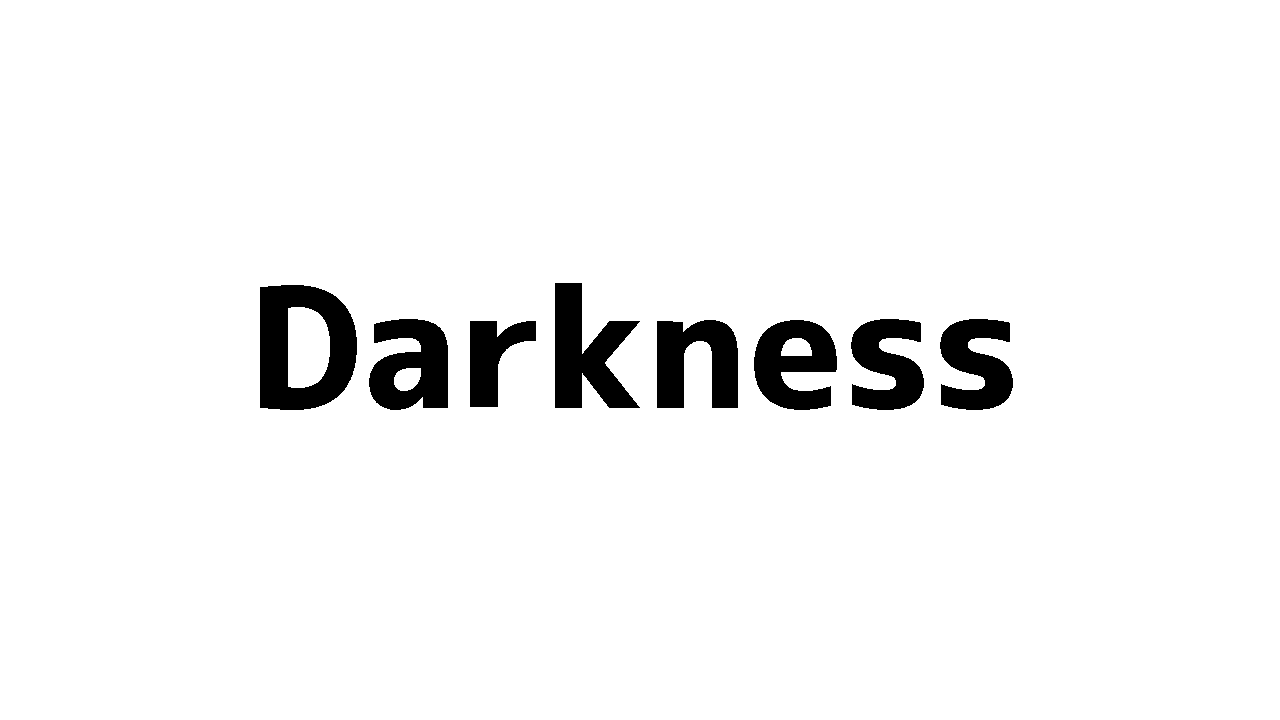
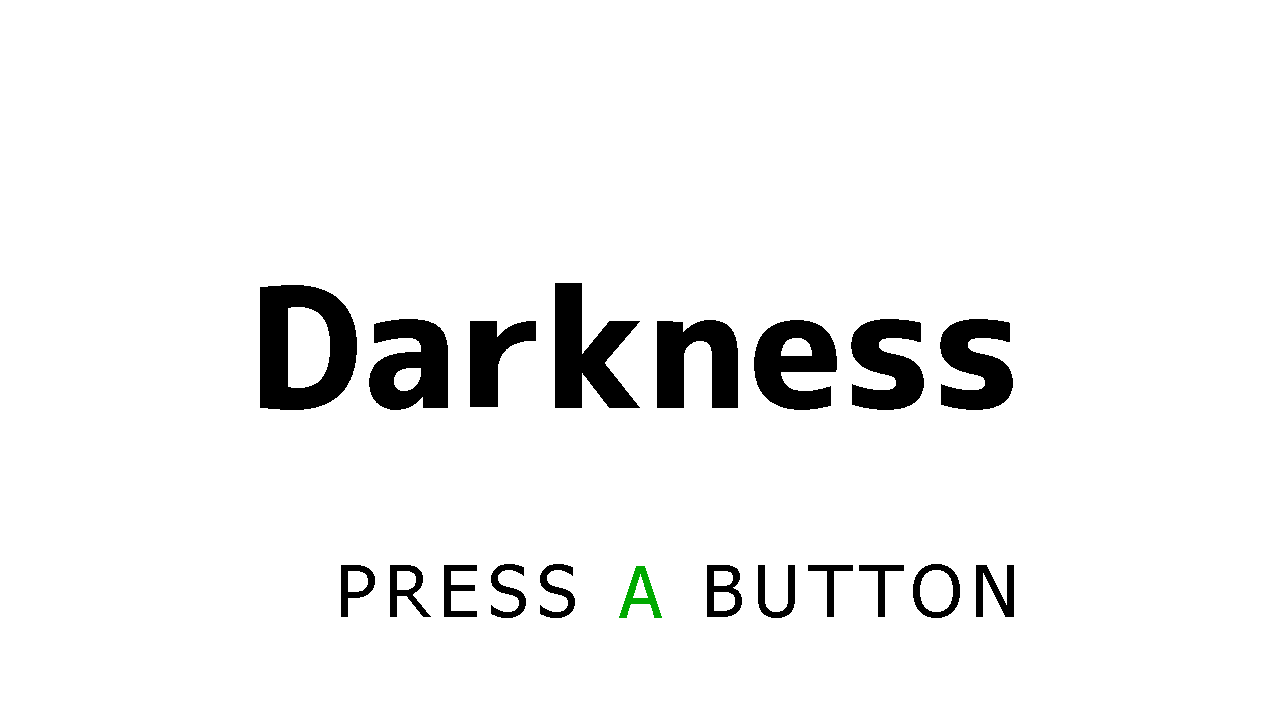
タイトル表記追加

Changed region(s): [[0.25, 0.7639, 0.8125, 0.8556]]

diff --git a/sugiEngine/app/UI/sceneChange.h b/sugiEngine/app/UI/sceneChange.h
@@ -22,6 +22,10 @@ public:
 		isSceneChange_ = true;
 	}
 
+	bool GetIsSceneChange() {
+		return isSceneChange_;
+	}
+
 	float GetTimer() {
 		return easeTimer_;
 	}
